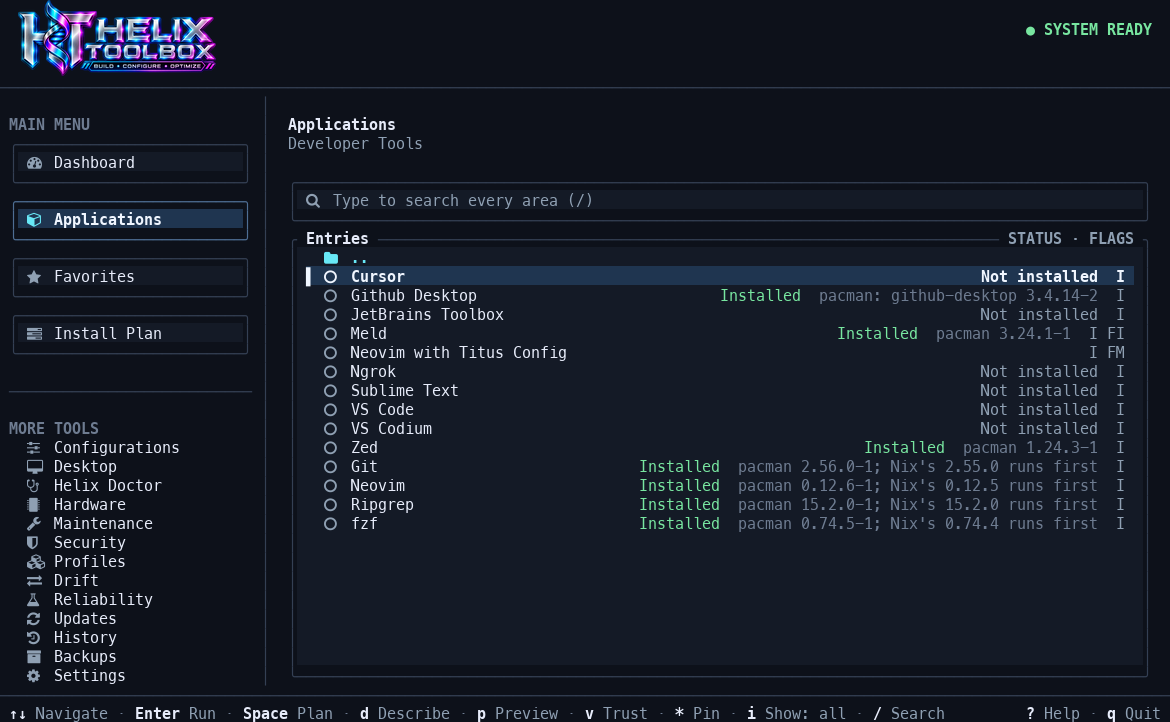
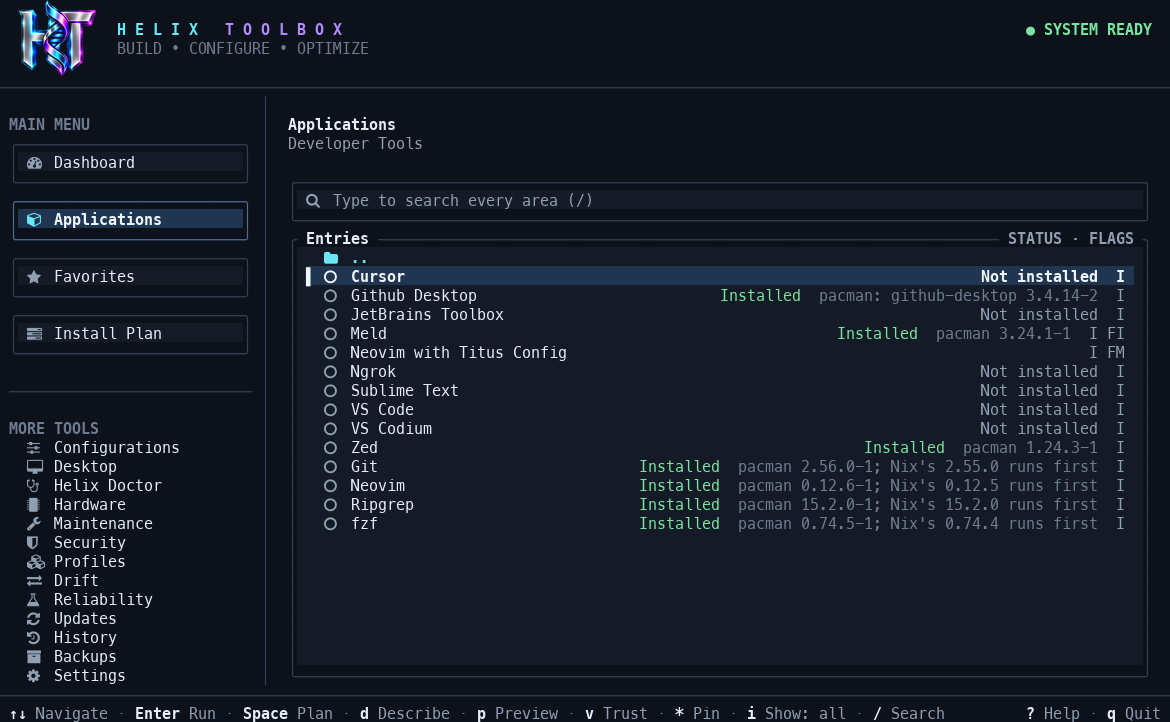
Show the emblem with a themed name in the picture header (#60)

Changed region(s): [[0.0, 0.0, 0.3077, 0.1219]]

diff --git a/apps/helix-toolbox/src/tui/app.rs b/apps/helix-toolbox/src/tui/app.rs
@@ -41,6 +41,11 @@ const SIDEBAR_WIDTH: u16 = 30;
 const HEADER_HEIGHT: u16 = 4;
 /// Room kept beside the banner for the status on the right.
 const STATUS_WIDTH: u16 = 18;
+/// The name beside the emblem, spaced out as on the logo.
+const WORDMARK: [&str; 2] = ["H E L I X", "T O O L B O X"];
+const TAGLINE: &str = "BUILD • CONFIGURE • OPTIMIZE";
+/// Room the name and tagline take beside the emblem.
+const WORDMARK_WIDTH: u16 = 30;
 const HIGHLIGHT: &str = "> ";
 const ROOT_WARNING: &str = "You are running Helix Toolbox as root.\n\nEvery entry then has full access to the system. The entries expect to run as your normal user and ask for your password when they need it.";
 const FLAGS_GUIDE: &str = "The flags column names what an entry does:
@@ -618,10 +623,12 @@ impl App {
     }
 
     /// The banner, unless icons are off, a theme with few or no colors is in use,
-    /// or the terminal is too narrow for it and the status beside it.
+    /// or the terminal is too narrow for it, the name and the status beside it.
     fn banner(&self, width: u16) -> Option<&Protocol> {
         self.banner.as_ref().filter(|banner| {
-            self.icons && self.theme.colorful() && banner.size().width + 2 + STATUS_WIDTH <= width
+            self.icons
+                && self.theme.colorful()
+                && banner.size().width + 4 + WORDMARK_WIDTH + STATUS_WIDTH <= width
         })
     }
 
@@ -1062,13 +1069,26 @@ impl App {
                 Image::new(banner),
                 Rect::new(area.x + 2, area.y, size.width, size.height).intersection(area),
             );
-            let middle = Rect::new(
-                area.x,
-                area.y + size.height.saturating_sub(1) / 2,
-                area.width.saturating_sub(2),
-                1,
+            // The name and tagline in the middle two rows, beside the emblem.
+            let top = area.y + size.height.saturating_sub(2) / 2;
+            let text = Rect::new(
+                area.x + size.width + 4,
+                top,
+                area.width.saturating_sub(size.width + 6),
+                2,
             )
             .intersection(area);
+            let [helix, toolbox] = WORDMARK;
+            let brand = Text::from(vec![
+                Line::from(vec![
+                    Span::styled(helix, Style::default().fg(self.theme.focused()).bold()),
+                    Span::raw("   "),
+                    Span::styled(toolbox, Style::default().fg(self.theme.title()).bold()),
+                ]),
+                Line::styled(TAGLINE, Style::default().fg(self.theme.faint())),
+            ]);
+            frame.render_widget(Paragraph::new(brand), text);
+            let middle = Rect::new(area.x, top, area.width.saturating_sub(2), 1).intersection(area);
             frame.render_widget(
                 Paragraph::new(Line::styled(status, Style::default().fg(color).bold()))
                     .alignment(Alignment::Right),
@@ -1105,10 +1125,7 @@ impl App {
                 Span::styled("HELIX", Style::default().fg(self.theme.focused()).bold()),
                 Span::styled(" TOOLBOX", Style::default().fg(self.theme.title()).bold()),
             ]),
-            Line::styled(
-                "BUILD • CONFIGURE • OPTIMIZE",
-                Style::default().fg(self.theme.faint()),
-            ),
+            Line::styled(TAGLINE, Style::default().fg(self.theme.faint())),
         ]);
         frame.render_widget(Paragraph::new(brand), text);
         frame.render_widget(
@@ -5609,7 +5626,14 @@ mod tests {
         assert!(lines[0].contains('\u{10EEEE}'), "{}", lines[0]);
         assert!(lines[3].contains('\u{10EEEE}'));
         assert!(lines[1].contains("SYSTEM READY"));
-        assert!(!text.contains("BUILD • CONFIGURE"));
+        // The name and tagline beside the emblem, in the middle rows.
+        assert!(
+            lines[1].contains("H E L I X   T O O L B O X"),
+            "{}",
+            lines[1]
+        );
+        assert!(lines[2].contains("BUILD • CONFIGURE • OPTIMIZE"));
+        assert!(!text.contains("HELIX TOOLBOX"));
         // Four rows of picture, then the rule and the sidebar below it.
         assert!(lines[4].contains('─'));
         assert!(lines[6].contains("MAIN MENU"));
@@ -5619,10 +5643,10 @@ mod tests {
     fn the_text_header_returns_without_icons_in_sixteen_colors_or_when_narrow() {
         let mut app = with_banner(app());
         app.icons = false;
-        assert!(screen(&mut app, 120, 40).contains("BUILD • CONFIGURE"));
+        assert!(screen(&mut app, 120, 40).contains("HELIX TOOLBOX"));
         app.icons = true;
         app.theme = Theme::Compatible;
-        assert!(screen(&mut app, 120, 40).contains("BUILD • CONFIGURE"));
+        assert!(screen(&mut app, 120, 40).contains("HELIX TOOLBOX"));
         app.theme = Theme::Solid;
         app.size_bypass = true;
         let narrow = screen(&mut app, 40, 30);

diff --git a/apps/helix-toolbox/src/tui/banner.rs b/apps/helix-toolbox/src/tui/banner.rs
@@ -1,6 +1,6 @@
-//! The Helix Toolbox banner, drawn as a picture in the header of terminals that
-//! can show one (with Kitty's graphics or Sixel); the others keep the text
-//! header.
+//! The Helix Toolbox emblem, drawn as a picture in the header of terminals that
+//! can show one (with Kitty's graphics or Sixel), with the name beside it in
+//! the theme's colors; the others keep the text header.
 
 use ratatui::layout::Size;
 use ratatui_image::{
@@ -15,10 +15,11 @@ use std::{
     time::{Duration, Instant},
 };
 
-/// A smaller copy of `assets/banner.png`, so the program stays light.
-const BANNER: &[u8] = include_bytes!("banner.png");
+/// The emblem of `assets/logo.png` on a clear background, small so the
+/// program stays light. The whole banner, at four rows, is too small to read.
+const BANNER: &[u8] = include_bytes!("emblem.png");
 
-/// The height of the banner in rows.
+/// The height of the emblem in rows.
 pub const ROWS: u16 = 4;
 
 /// Kitty's graphics query, the cell size in pixels, then the device
@@ -157,7 +158,7 @@ fn read_replies(terminal: &mut File) -> Vec<u8> {
     replies
 }
 
-/// The banner encoded for this terminal, `ROWS` high.
+/// The emblem encoded for this terminal, `ROWS` high.
 pub fn encode(picker: &Picker) -> Option<Protocol> {
     let image = image::load_from_memory_with_format(BANNER, image::ImageFormat::Png).ok()?;
     let font = picker.font_size();
@@ -219,15 +220,16 @@ mod tests {
     }
 
     #[test]
-    fn the_banner_is_four_rows_and_keeps_its_shape() {
+    fn the_emblem_is_four_rows_and_keeps_its_shape() {
         #[allow(deprecated)]
         let mut picker = Picker::from_fontsize(FontSize::new(9, 19));
         picker.set_protocol_type(ProtocolType::Kitty);
-        let banner = encode(&picker).expect("the built-in banner encodes");
+        let banner = encode(&picker).expect("the built-in emblem encodes");
         assert_eq!(banner.size().height, ROWS);
-        // 4 rows of 19 pixels at the banner's 2.6:1 shape, in 9-pixel columns.
+        // 4 rows of 19 pixels at the emblem's nearly square shape, in 9-pixel
+        // columns.
         assert!(
-            (21..=23).contains(&banner.size().width),
+            (8..=10).contains(&banner.size().width),
             "{:?}",
             banner.size()
         );

diff --git a/apps/helix-toolbox/tests/terminal.rs b/apps/helix-toolbox/tests/terminal.rs
@@ -536,7 +536,9 @@ fn the_banner_is_drawn_where_the_terminal_shows_pictures() {
     tui.wait_for(&["SYSTEM READY", "MAIN MENU"]);
     let screen = tui.contents();
     assert!(screen.contains('\u{10EEEE}'), "{screen}");
-    assert!(!screen.contains("BUILD • CONFIGURE"));
+    // The spaced-out name beside the emblem, not the text header's.
+    assert!(screen.contains("H E L I X   T O O L B O X"), "{screen}");
+    assert!(!screen.contains("HELIX TOOLBOX"));
     // The answers were all read, so the first key reaches the menu.
     tui.keys("?");
     tui.wait_for(&[" Keys "]);

diff --git a/docs/ROADMAP.md b/docs/ROADMAP.md
@@ -420,9 +420,9 @@ Office, Waterfox, Zen Browser) gave their Flatpak ID as `binary`; fixed in
 
 ## Logo and banner (done)
 
-- `assets/`: the banner (README and the menu's header), the transparent logo,
-  the app icon and the README's screenshots
-- The menu's header shows the banner in terminals with Kitty's graphics or
+- `assets/`: the banner (README), the logo (its emblem is the menu's
+  header), the app icon and the README's screenshots
+- The menu's header shows the emblem in terminals with Kitty's graphics or
   Sixel, found by one query at start with a 0.4 second limit; Konsole, tmux,
   screen, the console, plain icons and the compatible theme keep the text
   header

diff --git a/docs/ARCHITECTURE.md b/docs/ARCHITECTURE.md
@@ -207,9 +207,9 @@ panel too.
 
 ## Interface
 
-A header with the name, tagline and a status badge (the banner picture
-instead of the name and tagline where the terminal shows pictures:
-`tui/banner.rs` asks it once at start and encodes the built-in copy for
+A header with the name, tagline and a status badge (with the emblem picture
+before a spaced-out name where the terminal shows pictures:
+`tui/banner.rs` asks it once at start and encodes the built-in emblem for
 Kitty's graphics or Sixel); a sidebar menu of
 screens in two sections; the current screen; a hint line. The screens are
 the Dashboard (system overview and quick actions), one screen per catalog

diff --git a/docs/GUIDE.md b/docs/GUIDE.md
@@ -13,7 +13,8 @@ Run `helix-toolbox` as your normal user, not with `sudo`: entries that change
 the system ask for your password inside the run, when they need it. The
 terminal should be at least 100 columns by 25 rows; a Nerd Font shows the
 icons (Settings turns them off otherwise). In Ghostty, Kitty, WezTerm, foot
-and other terminals that show pictures, the header is the Helix Toolbox banner.
+and other terminals that show pictures, the header shows the Helix Toolbox
+emblem beside the name.
 `t` cycles the themes: solid, transparent, compatible (sixteen colors) and
 monochrome (no color, the theme `NO_COLOR` selects for a run).
 

diff --git a/CHANGELOG.md b/CHANGELOG.md
@@ -4,6 +4,13 @@ Each release is tagged `vMAJOR.MINOR.PATCH` on GitHub, with the program, its
 packages and their checksums. A release whose workflow only adopted updated
 dotfiles or Myfish sources raises the patch number and is not listed here.
 
+## v1.7.5
+
+- **A clearer header.** Where the terminal shows pictures, the header now
+  shows the HT emblem with the name and tagline beside it in the theme's
+  cyan and purple, instead of the whole banner shrunk to four rows, where
+  its lettering could not be read.
+
 ## v1.7.0
 
 - **HelixForge is now Helix Toolbox.** The command is `helix-toolbox`, or
